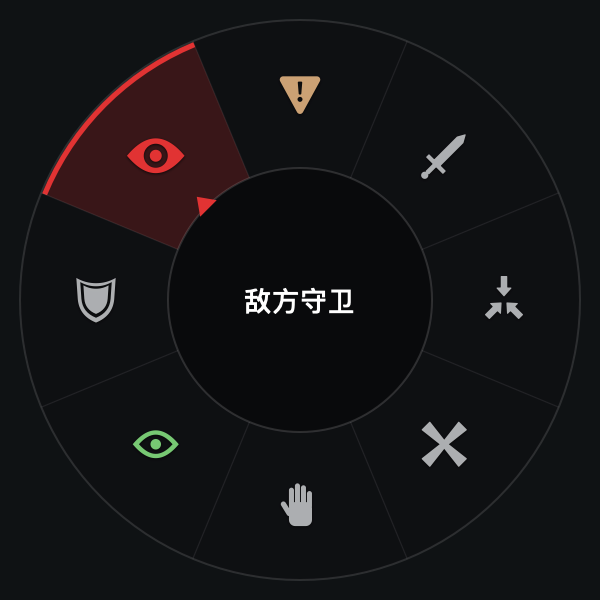
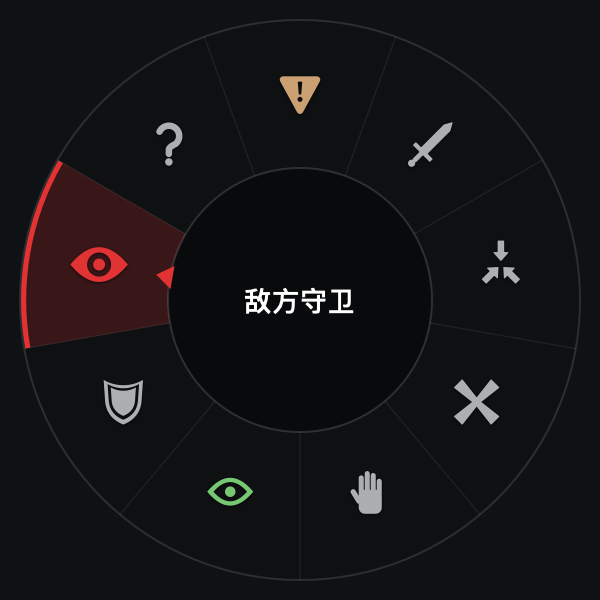
Add the Question Mark ping
The wheel now has nine 40° slots: the eight default pings plus the
game's "Question Mark?" seasonal ping (问号), drawn as a bold vector
question mark in the player's color and using the ordinary ping sound,
since it has no sound event of its own. Wheel geometry, drawing,
visual checks and tests now derive from the slot count. Version 1.2.0 (3).

diff --git a/Sources/DotaPing/VisualChecks.swift b/Sources/DotaPing/VisualChecks.swift
@@ -38,15 +38,15 @@ enum VisualChecks {
         _ = NSApplication.shared
         try FileManager.default.createDirectory(at: directory, withIntermediateDirectories: true)
         try checkEffectLifecycle()
-        let order = PingKind.wheel + [.regular]
+        let order = PingKind.wheel + [.regular], rows = (order.count+2)/3
         for scale in [0.75, 1.0, 1.5] {
             let side = CGFloat(300*scale), spacing = CGFloat(16)
-            let rep = bitmap(size: CGSize(width: side*3+spacing*4, height: side*3+spacing*4)) {
+            let rep = bitmap(size: CGSize(width: side*3+spacing*4, height: side*CGFloat(rows)+spacing*CGFloat(rows+1))) {
                 for (index, kind) in order.enumerated() {
                     let view = WheelView(frame: CGRect(x: 0, y: 0, width: side, height: side))
-                    let angle: CGFloat? = kind == .regular ? nil : CGFloat(PingKind.wheel.firstIndex(of: kind)!) * .pi/4
+                    let angle: CGFloat? = kind == .regular ? nil : CGFloat(PingKind.wheel.firstIndex(of: kind)!) * WheelGeometry.sector
                     view.setSelection(kind, angle: angle, animated: false)
-                    draw(view, at: CGPoint(x: spacing+CGFloat(index%3)*(side+spacing), y: spacing+CGFloat(2-index/3)*(side+spacing)))
+                    draw(view, at: CGPoint(x: spacing+CGFloat(index%3)*(side+spacing), y: spacing+CGFloat(rows-1-index/3)*(side+spacing)))
                 }
             }
             try save(rep, to: directory.appendingPathComponent("wheel-\(Int(scale*100))-retina.png"))
@@ -55,15 +55,15 @@ enum VisualChecks {
         // uses a Dire player colour.
         let view = WheelView(frame: CGRect(x: 0, y: 0, width: 300, height: 300))
         view.player = .pink
-        view.setSelection(.attack, angle: .pi/4, animated: false)
+        view.setSelection(.attack, angle: WheelGeometry.sector, animated: false)
         try save(bitmap(size: CGSize(width: 300, height: 300), pixelScale: 1) { draw(view, at: .zero) }, to: directory.appendingPathComponent("wheel-100-1x.png"))
         let times = [0.06, 0.2, 0.45, 1.2, 1.8, 2.6]
-        let phases = bitmap(size: CGSize(width: 200*CGFloat(times.count), height: 200*9)) {
+        let phases = bitmap(size: CGSize(width: 200*CGFloat(times.count), height: 200*CGFloat(order.count))) {
             for (row, kind) in order.enumerated() {
                 for (column, time) in times.enumerated() {
                     let effect = PingEffectView(frame: CGRect(x: 0, y: 0, width: 200, height: 200), kind: kind, player: .blue, language: .english, scale: 1)
                     effect.seek(to: time)
-                    draw(effect, at: CGPoint(x: column*200, y: (8-row)*200))
+                    draw(effect, at: CGPoint(x: column*200, y: (order.count-1-row)*200))
                 }
             }
         }
@@ -85,7 +85,7 @@ enum VisualChecks {
             let suffix = language == .english ? "" : "-zh"
             let single = WheelView(frame: CGRect(x: 0, y: 0, width: 300, height: 300))
             single.language = language
-            single.setSelection(.enemyWard, angle: -.pi/4, animated: false)
+            single.setSelection(.enemyWard, angle: CGFloat(PingKind.wheel.firstIndex(of: .enemyWard)!) * WheelGeometry.sector, animated: false)
             try save(bitmap(size: CGSize(width: 300, height: 300)) { draw(single, at: .zero) }, to: directory.appendingPathComponent("readme-wheel\(suffix).png"))
             let landed = bitmap(size: CGSize(width: 160*5, height: 170)) {
                 for (index, kind) in [PingKind.regular, .caution, .attack, .enemyWard, .friendlyWard].enumerated() {
@@ -105,7 +105,7 @@ enum VisualChecks {
         defaults.register(defaults: ["trigger": trigger.rawValue, "language": language.rawValue, "playerColor": PlayerColor.blue.rawValue, "volume": 0.55, "effectScale": 1.0])
         let model = AppModel(defaults: defaults)
         let host = NSHostingView(rootView: ControlView(model: model))
-        let window = NSWindow(contentRect: CGRect(x: 0, y: 0, width: 480, height: 780), styleMask: [.borderless], backing: .buffered, defer: false)
+        let window = NSWindow(contentRect: CGRect(x: 0, y: 0, width: 480, height: 840), styleMask: [.borderless], backing: .buffered, defer: false)
         window.appearance = NSAppearance(named: appearance)
         window.contentView = host
         host.layoutSubtreeIfNeeded()
@@ -134,7 +134,7 @@ enum VisualChecks {
                 throw NSError(domain: "VisualChecks", code: 4, userInfo: [NSLocalizedDescriptionKey: "Animation/stop check failed: \(kind.title(.english))"])
             }
         }
-        print("PASS 9 effects: visible animation changes, finish clean and stop immediately (36 pixel comparisons).")
+        print("PASS \(PingKind.allCases.count) effects: visible animation changes, finish clean and stop immediately (\(PingKind.allCases.count*4) pixel comparisons).")
     }
     private static func movie(to url: URL) throws {
         if FileManager.default.fileExists(atPath: url.path) { try FileManager.default.removeItem(at: url) }
@@ -153,8 +153,8 @@ enum VisualChecks {
             let rep = bitmap(size: size, pixelScale: 1) {
                 if t < 7 {
                     let segment = max(-1, Int((t-0.6)/0.65))
-                    let kind: PingKind = t < 0.6 ? .regular : (segment < 8 ? PingKind.wheel[segment] : .regular)
-                    let angle: CGFloat? = kind == .regular ? nil : CGFloat(segment) * .pi/4 + CGFloat(sin(t*7))*0.15
+                    let kind: PingKind = t < 0.6 ? .regular : (segment < PingKind.wheel.count ? PingKind.wheel[segment] : .regular)
+                    let angle: CGFloat? = kind == .regular ? nil : CGFloat(segment) * WheelGeometry.sector + CGFloat(sin(t*7))*0.15
                     if segment != previous { wheel.setSelection(wheel.selected, angle: wheel.direction, animated: false); previous = segment }
                     wheel.setSelection(kind, angle: angle)
                     wheel.sampleTransition(elapsed: t < 0.6 ? 1 : (t-0.6).truncatingRemainder(dividingBy: 0.65))
@@ -163,11 +163,11 @@ enum VisualChecks {
                 } else {
                     let age = (t-7).truncatingRemainder(dividingBy: 2.5)
                     for (index, kind) in order.enumerated() {
-                        let effect = PingEffectView(frame: CGRect(x: 0, y: 0, width: 240, height: 200), kind: kind, player: .blue, language: .english, scale: 1.1)
+                        let effect = PingEffectView(frame: CGRect(x: 0, y: 0, width: 192, height: 240), kind: kind, player: .blue, language: .english, scale: 1)
                         effect.seek(to: age)
-                        draw(effect, at: CGPoint(x: 120+(index%3)*240, y: 65+(2-index/3)*205))
+                        draw(effect, at: CGPoint(x: (index%5)*192, y: 90+(1-index/5)*270))
                     }
-                    caption("Nine pings: closing ring, pulses, rising icon, chat line", center: CGPoint(x: 480, y: 35))
+                    caption("Ten pings: closing ring, pulses, rising icon, chat line", center: CGPoint(x: 480, y: 35))
                 }
             }
             while !input.isReadyForMoreMediaData { RunLoop.current.run(until: Date(timeIntervalSinceNow: 0.005)) }

diff --git a/Tests/PingCoreTests/GestureTests.swift b/Tests/PingCoreTests/GestureTests.swift
@@ -31,11 +31,15 @@ final class GestureTests {
 
     // MARK: Chord triggers
 
-    func testEightDirectionsAndCentralDeadZone() {
-        let vectors: [CGPoint] = [.init(x: 0,y: 100), .init(x: 100,y: 100), .init(x: 100,y: 0), .init(x: 100,y: -100),
-                                  .init(x: 0,y: -100), .init(x: -100,y: -100), .init(x: -100,y: 0), .init(x: -100,y: 100)]
-        for (index, vector) in vectors.enumerated() {
-            XCTAssertEqual(WheelGeometry.selection(at: vector, center: .zero, deadZone: WheelGeometry.centerRadius), PingKind.wheel[index])
+    func testEveryDirectionAndCentralDeadZone() {
+        XCTAssertEqual(PingKind.wheel.count, 9)
+        for (index, kind) in PingKind.wheel.enumerated() {
+            // Slot centre and both inner edges, clockwise from north.
+            for offset in [0, -WheelGeometry.sector/2 + 0.01, WheelGeometry.sector/2 - 0.01] {
+                let theta = CGFloat(index)*WheelGeometry.sector + offset
+                let point = CGPoint(x: 100*sin(theta), y: 100*cos(theta))
+                XCTAssertEqual(WheelGeometry.selection(at: point, center: .zero, deadZone: WheelGeometry.centerRadius), kind)
+            }
         }
         XCTAssertEqual(WheelGeometry.selection(at: CGPoint(x: 66, y: 0), center: .zero, deadZone: WheelGeometry.centerRadius), .regular)
         XCTAssertEqual(WheelGeometry.selection(at: CGPoint(x: 67, y: 0), center: .zero, deadZone: WheelGeometry.centerRadius), .onMyWay)
@@ -48,8 +52,9 @@ final class GestureTests {
     }
     func testReleaseCommitsExactlyOnceAtOriginalAnchor() {
         let machine = GestureMachine(); open(machine)
-        XCTAssertEqual(machine.moved(to: CGPoint(x: 500, y: 400)), [.hover(.defend, angle: -.pi/2)])
-        XCTAssertEqual(machine.flagsChanged([.control, .option], at: .zero, otherInputHeld: false), [.dismiss, .commit(.defend, anchor)])
+        // Due west lies in the Enemy Ward slot (260°–300°).
+        XCTAssertEqual(machine.moved(to: CGPoint(x: 500, y: 400)), [.hover(.enemyWard, angle: -.pi/2)])
+        XCTAssertEqual(machine.flagsChanged([.control, .option], at: .zero, otherInputHeld: false), [.dismiss, .commit(.enemyWard, anchor)])
         XCTAssertEqual(machine.flagsChanged([.option], at: .zero, otherInputHeld: false), [])
         XCTAssertEqual(machine.flagsChanged([], at: .zero, otherInputHeld: false), [])
         XCTAssertEqual(machine.phase, .idle)
@@ -121,9 +126,9 @@ final class GestureTests {
     func testMovementDuringArmingAppliedAfterWheelOpens() {
         let machine = GestureMachine()
         _ = machine.flagsChanged(chord, at: anchor, otherInputHeld: false)
-        _ = machine.moved(to: CGPoint(x: 600, y: 300))
+        _ = machine.moved(to: CGPoint(x: 620, y: 300))
         _ = machine.delayElapsed()
-        XCTAssertEqual(machine.setWheelCenter(anchor), [.hover(.assist, angle: .pi)])
+        XCTAssertEqual(machine.setWheelCenter(anchor), [.hover(.assist, angle: atan2(20, -100))])
     }
     func testEveryChordTrigger() {
         for trigger in Trigger.allCases where !trigger.usesPrimaryButton {
@@ -197,11 +202,11 @@ final class GestureTests {
         XCTAssertEqual(machine.delayElapsed(), [.show(anchor)])
         XCTAssertEqual(machine.setWheelCenter(anchor), [])
         // Physical trackpad press, three-finger drag and mouse drags all arrive as primary drags.
-        XCTAssertEqual(machine.primaryDragged(to: CGPoint(x: 600, y: 300)), Response([.hover(.assist, angle: .pi)], consume: true))
+        XCTAssertEqual(machine.primaryDragged(to: CGPoint(x: 620, y: 300)), Response([.hover(.assist, angle: atan2(20, -100))], consume: true))
         // Letting go of Option first keeps the wheel open; the button decides.
         XCTAssertEqual(machine.flagsChanged([], at: anchor, otherInputHeld: false), [])
-        XCTAssertEqual(machine.primaryDragged(to: CGPoint(x: 520, y: 320)), Response([.hover(.friendlyWard, angle: atan2(-80, -80))], consume: true))
-        XCTAssertEqual(machine.primaryUp(at: CGPoint(x: 520, y: 320)), Response([.dismiss, .commit(.friendlyWard, anchor)], consume: true))
+        XCTAssertEqual(machine.primaryDragged(to: CGPoint(x: 520, y: 320)), Response([.hover(.defend, angle: atan2(-80, -80))], consume: true))
+        XCTAssertEqual(machine.primaryUp(at: CGPoint(x: 520, y: 320)), Response([.dismiss, .commit(.defend, anchor)], consume: true))
         XCTAssertEqual(machine.primaryUp(at: anchor), Response())
     }
     func testControlOptionClickSendsWarningOnce() {
@@ -246,8 +251,8 @@ final class GestureTests {
     // MARK: Data, artwork and audio
 
     func testGameDataAndColors() {
-        XCTAssertEqual(PingKind.wheel.count, 8)
-        XCTAssertEqual(Set(PingKind.wheel).count, 8)
+        XCTAssertEqual(PingKind.wheel.count, 9)
+        XCTAssertEqual(Set(PingKind.wheel).count, 9)
         XCTAssertTrue(!PingKind.wheel.contains(.regular))
         XCTAssertEqual(PingKind.caution.fixedColor, RGB(255, 155, 14))
         XCTAssertEqual(PingKind.enemyWard.color(for: .pink), RGB(225, 51, 51))
@@ -259,9 +264,9 @@ final class GestureTests {
     func testBothLanguagesAreComplete() {
         // English names are the game's dota_pingwheel_* strings.
         XCTAssertEqual(PingKind.wheel.map { $0.title(.english) },
-                       ["Caution", "Attack", "On My Way", "Warning", "Assist", "Friendly Ward", "Defend", "Enemy Ward"])
+                       ["Caution", "Attack", "On My Way", "Warning", "Assist", "Friendly Ward", "Defend", "Enemy Ward", "Question Mark"])
         for language in Language.allCases {
-            XCTAssertEqual(Set(PingKind.allCases.map { $0.title(language) }).count, 9)
+            XCTAssertEqual(Set(PingKind.allCases.map { $0.title(language) }).count, 10)
             XCTAssertEqual(PingKind.allCases.compactMap { $0.chat(language) }.count, 7)
             XCTAssertEqual(Set(PlayerColor.allCases.map { $0.title(language) }).count, 10)
             XCTAssertEqual(Set(Trigger.allCases.map { $0.title(language) }).count, 4)
@@ -351,7 +356,7 @@ enum Checks {
     static func main() {
         let test = GestureTests()
         let scenarios: [(String, () -> Void)] = [
-            ("Eight directions and centre zone", test.testEightDirectionsAndCentralDeadZone),
+            ("Every direction and centre zone", test.testEveryDirectionAndCentralDeadZone),
             ("Short press never pings", test.testShortPressNeverPingsAndLateTimerDoesNothing),
             ("Sends once at the original anchor", test.testReleaseCommitsExactlyOnceAtOriginalAnchor),
             ("Every key-release order", test.testAllReleaseOrdersCommitExactlyOnce),

diff --git a/Sources/PingCore/Ping.swift b/Sources/PingCore/Ping.swift
@@ -10,12 +10,13 @@ public enum Language: String, CaseIterable, Identifiable {
     public func pick(_ english: String, _ chinese: String) -> String { self == .english ? english : chinese }
 }
 
-/// The default entries of Dota 2's ping wheel (`scripts/ping_wheel.vdata`).
+/// The default entries of Dota 2's ping wheel (`scripts/ping_wheel.vdata`),
+/// plus the game's "Question Mark?" seasonal ping.
 public enum PingKind: String, CaseIterable, Identifiable {
-    case caution, attack, onMyWay, warning, assist, friendlyWard, defend, enemyWard, regular
+    case caution, attack, onMyWay, warning, assist, friendlyWard, defend, enemyWard, question, regular
     public var id: String { rawValue }
     /// Clockwise from north. The centre is the ordinary ping.
-    public static let wheel: [PingKind] = [.caution, .attack, .onMyWay, .warning, .assist, .friendlyWard, .defend, .enemyWard]
+    public static let wheel: [PingKind] = [.caution, .attack, .onMyWay, .warning, .assist, .friendlyWard, .defend, .enemyWard, .question]
     /// Wheel label: the game's `dota_pingwheel_*` string.
     public func title(_ language: Language) -> String {
         switch self {
@@ -27,11 +28,12 @@ public enum PingKind: String, CaseIterable, Identifiable {
         case .friendlyWard: return language.pick("Friendly Ward", "友方守卫")
         case .defend: return language.pick("Defend", "防守")
         case .enemyWard: return language.pick("Enemy Ward", "敌方守卫")
+        case .question: return language.pick("Question Mark", "问号")
         case .regular: return language.pick("Ping", "信号")
         }
     }
     /// Team chat line: the game's `DOTA_Chat_Ping_Msg_*` text, without icon and location.
-    /// The ordinary and warning pings post no chat message in game.
+    /// The ordinary, warning and seasonal pings post no chat message in game.
     public func chat(_ language: Language) -> String? {
         switch self {
         case .caution: return language.pick("Caution", "小心")
@@ -41,13 +43,14 @@ public enum PingKind: String, CaseIterable, Identifiable {
         case .friendlyWard: return language.pick("We Need Vision", "我们需要视野")
         case .defend: return language.pick("Defend", "防守")
         case .enemyWard: return language.pick("Enemy Has Vision", "敌人有视野")
-        case .warning, .regular: return nil
+        case .warning, .question, .regular: return nil
         }
     }
     /// One cue per game sound event; several pings share an event, as in game.
+    /// The seasonal Question Mark has no event of its own and uses the ordinary one.
     public var soundName: String {
         switch self {
-        case .regular, .assist: return "ping"
+        case .regular, .assist, .question: return "ping"
         case .warning, .caution: return "ping_warning"
         case .onMyWay: return "ping_waypoint"
         case .attack: return "ping_attack"
@@ -160,6 +163,8 @@ public enum Trigger: String, CaseIterable, Identifiable {
 }
 
 public enum WheelGeometry {
+    /// Angular width of one wheel slot.
+    public static let sector: CGFloat = 2 * .pi / CGFloat(PingKind.wheel.count)
     public static let centerRadius: CGFloat = 66
     public static let iconRadius: CGFloat = 102
     public static let outerRadius: CGFloat = 140
@@ -174,9 +179,9 @@ public enum WheelGeometry {
     public static func selection(at point: CGPoint, center: CGPoint, deadZone: CGFloat) -> PingKind {
         let dx = point.x - center.x, dy = point.y - center.y
         guard hypot(dx, dy) > deadZone else { return .regular }
-        let clockwiseFromNorth = atan2(dx, dy)
-        let index = Int(floor((clockwiseFromNorth + .pi / 8) / (.pi / 4)))
-        return PingKind.wheel[(index % 8 + 8) % 8]
+        let clockwiseFromNorth = atan2(dx, dy), count = PingKind.wheel.count
+        let index = Int(floor((clockwiseFromNorth + sector / 2) / sector))
+        return PingKind.wheel[(index % count + count) % count]
     }
 
     public static func clampedCenter(anchor: CGPoint, frame: CGRect, radius: CGFloat) -> CGPoint {

diff --git a/Sources/DotaPing/Overlay.swift b/Sources/DotaPing/Overlay.swift
@@ -35,8 +35,8 @@ final class WheelView: NSView {
     private(set) var direction: CGFloat?
     var player: PlayerColor = .blue { didSet { needsDisplay = true } }
     var language: Language = .english { didSet { needsDisplay = true } }
-    private var weights = Array(repeating: 0.0, count: 8)
-    private var origins = Array(repeating: 0.0, count: 8)
+    private var weights = Array(repeating: 0.0, count: PingKind.wheel.count)
+    private var origins = Array(repeating: 0.0, count: PingKind.wheel.count)
     private var transitionStart: CFTimeInterval = 0
     private var openingStart: CFTimeInterval?
     private var timer: Timer?
@@ -104,20 +104,21 @@ final class WheelView: NSView {
         NSColor(srgbRed: 0.055, green: 0.06, blue: 0.068, alpha: 0.86).setFill(); disk.fill()
         NSColor(white: 1, alpha: 0.12).setStroke(); disk.lineWidth = 1*s; disk.stroke()
 
+        let step = 360/CGFloat(PingKind.wheel.count), half = step/2
         for (index, kind) in PingKind.wheel.enumerated() {
-            let degrees = CGFloat(90-index*45), theta = degrees * .pi/180
+            let degrees = 90-CGFloat(index)*step, theta = degrees * .pi/180
             let weight = weights[index], tint = kind.tint(player)
             if weight > 0.001 {
                 let sector = NSBezierPath()
-                sector.appendArc(withCenter: c, radius: outer-0.5*s, startAngle: degrees+22.5, endAngle: degrees-22.5, clockwise: true)
-                sector.appendArc(withCenter: c, radius: inner, startAngle: degrees-22.5, endAngle: degrees+22.5, clockwise: false)
+                sector.appendArc(withCenter: c, radius: outer-0.5*s, startAngle: degrees+half, endAngle: degrees-half, clockwise: true)
+                sector.appendArc(withCenter: c, radius: inner, startAngle: degrees-half, endAngle: degrees+half, clockwise: false)
                 sector.close()
                 tint.withAlphaComponent(0.20*weight).setFill(); sector.fill()
                 let rim = NSBezierPath()
-                rim.appendArc(withCenter: c, radius: outer-1.8*s, startAngle: degrees-22.5, endAngle: degrees+22.5)
+                rim.appendArc(withCenter: c, radius: outer-1.8*s, startAngle: degrees-half, endAngle: degrees+half)
                 tint.withAlphaComponent(weight).setStroke(); rim.lineWidth = 2.6*s; rim.stroke()
             }
-            let boundary = (degrees+22.5) * .pi/180
+            let boundary = (degrees+half) * .pi/180
             let divider = NSBezierPath()
             divider.move(to: CGPoint(x: c.x+cos(boundary)*inner, y: c.y+sin(boundary)*inner))
             divider.line(to: CGPoint(x: c.x+cos(boundary)*outer, y: c.y+sin(boundary)*outer))

diff --git a/Sources/PingCore/Glyphs.swift b/Sources/PingCore/Glyphs.swift
@@ -81,6 +81,15 @@ public enum Glyphs {
                 path.addPath(shield.copy(using: &inset)!)
             }
             return Glyph(path: path, evenOdd: true)
+        case .question:
+            // Bold question mark, like the game's "Question Mark?" ping: a stroked hook and stem over a dot.
+            let hook = CGMutablePath()
+            hook.addArc(center: CGPoint(x: 0.5, y: 0.66), radius: 0.215, startAngle: 155 * .pi/180, endAngle: -50 * .pi/180, clockwise: true)
+            hook.addQuadCurve(to: CGPoint(x: 0.5, y: 0.37), control: CGPoint(x: 0.5, y: 0.43))
+            hook.addLine(to: CGPoint(x: 0.5, y: 0.29))
+            path.addPath(hook.copy(strokingWithWidth: 0.135, lineCap: .round, lineJoin: .round, miterLimit: 10))
+            path.addEllipse(in: circle(0.5, 0.12, 0.078))
+            return Glyph(path: path, evenOdd: false)
         case .enemyWard:
             // Solid ward eye, like the Observer Ward map icon.
             path.addPath(almond(left: 0.02, right: 0.98, y: 0.5, lift: 0.58))

diff --git a/Sources/DotaPing/main.swift b/Sources/DotaPing/main.swift
@@ -34,7 +34,7 @@ if CommandLine.arguments.contains("--check-assets") {
         }
         print("game \(recipe.output): \(String(format: "%.2f", player.duration))s")
     }
-    if failures.isEmpty { print("All 9 glyphs draw; all 7 game and 7 synthesised cues decode."); exit(0) }
+    if failures.isEmpty { print("All \(PingKind.allCases.count) glyphs draw; all 7 game and 7 synthesised cues decode."); exit(0) }
     failures.forEach { print($0) }; exit(1)
 }
 

diff --git a/README.md b/README.md
@@ -23,7 +23,7 @@ Apple Silicon Mac with macOS 13 or later.
 
 ## Install
 
-Download `DotaPing-v1.1.0-macOS-arm64.zip` from [Releases](https://github.com/PeixiongYuan/DotaPing-Mac/releases), unzip it and move `DotaPing.app` to Applications.
+Download `DotaPing-v1.2.0-macOS-arm64.zip` from [Releases](https://github.com/PeixiongYuan/DotaPing-Mac/releases), unzip it and move `DotaPing.app` to Applications.
 
 The app is ad-hoc signed, not notarized. If macOS refuses to open it, try once, then go to **System Settings → Privacy & Security** and choose **Open Anyway**.
 
@@ -60,25 +60,26 @@ Settings are saved automatically: trigger, player color, size, volume, sounds an
 
 ## Pings
 
-Clockwise from the top, with the ordinary Ping in the center. Names, team chat lines, fixed colors and sound grouping come from the game's `scripts/ping_wheel.vdata` and its English and Simplified Chinese localization.
+Nine slots of 40°, clockwise from the top, with the ordinary Ping in the center. Names, team chat lines, fixed colors and sound grouping come from the game's `scripts/ping_wheel.vdata` and its English and Simplified Chinese localization.
 
-| Position | Ping | Chat line | 简体中文 | Color | Game sound event |
+| Slot | Ping | Chat line | 简体中文 | Color | Game sound event |
 | --- | --- | --- | --- | --- | --- |
 | Top | Caution | Caution | 小心 | fixed orange | General.PingWarning |
-| Top right | Attack | Attack | 进攻 | player color | General.PingAttack |
-| Right | On My Way | On My Way | 我马上到 | player color | General.PingWaypoint |
-| Bottom right | Warning | — | 警告 | player color | General.PingWarning |
-| Bottom | Assist | Assist | 援助 | player color | General.Ping |
-| Bottom left | Friendly Ward | We Need Vision | 友方守卫 | fixed green | General.PingFriendlyWard |
-| Left | Defend | Defend | 防守 | player color | General.PingDefense |
-| Top left | Enemy Ward | Enemy Has Vision | 敌方守卫 | fixed red | General.PingEnemyWard |
+| 40° | Attack | Attack | 进攻 | player color | General.PingAttack |
+| 80° | On My Way | On My Way | 我马上到 | player color | General.PingWaypoint |
+| 120° | Warning | — | 警告 | player color | General.PingWarning |
+| 160° | Assist | Assist | 援助 | player color | General.Ping |
+| 200° | Friendly Ward | We Need Vision | 友方守卫 | fixed green | General.PingFriendlyWard |
+| 240° | Defend | Defend | 防守 | player color | General.PingDefense |
+| 280° | Enemy Ward | Enemy Has Vision | 敌方守卫 | fixed red | General.PingEnemyWard |
+| 320° | Question Mark | — | 问号 | player color | General.Ping |
 | Center | Ping | — | 信号 | player color | General.Ping |
 
-The player color can be any of the ten Radiant and Dire slot colors. The game lets players rearrange the wheel; the positions above follow LoLPing's layout and may differ from the in-game default. The Heart ping is not included.
+The player color can be any of the ten Radiant and Dire slot colors. Question Mark is the game's "Question Mark?" seasonal ping; it has no sound event or chat line of its own, so it uses the ordinary ping sound. The game lets players rearrange the wheel; the order above follows LoLPing's layout, with Question Mark added last, and may differ from the in-game default. The Heart ping is not included.
 
 ## Icons and sound
 
-- The icons are vector drawings that follow the shapes of the in-game ping icons where those could be checked: the ringed "!", the flared X, three converging arrows for On My Way, the sword, the notched shield and the ward eye. In game both ward pings use the same eye in different colors; here Friendly Ward is drawn as an outline so the two differ even before they are highlighted. The standard Caution and Assist icons are not publicly available, so Caution is a point-down warning triangle (after the game's "Caution!" seasonal ping) and Assist is a raised hand.
+- The icons are vector drawings that follow the shapes of the in-game ping icons where those could be checked: the ringed "!", the flared X, three converging arrows for On My Way, the sword, the notched shield, the ward eye and the bold question mark. In game both ward pings use the same eye in different colors; here Friendly Ward is drawn as an outline so the two differ even before they are highlighted. The standard Caution and Assist icons are not publicly available, so Caution is a point-down warning triangle (after the game's "Caution!" seasonal ping) and Assist is a raised hand.
 - **Sounds → Dota 2** (default) plays the game's own ping sounds. The eight files from the game's `sounds/ui/` folder are bundled unmodified in `Resources/Sounds/`, taken from the community archive [Source2Sounds/dota2](https://github.com/Source2Sounds/dota2) at a pinned commit; `Resources/asset-sources.json` records their sources and SHA-256 hashes, and `scripts/fetch_sounds.py` can restore them. At launch DotaPing mixes them the way the game's sound events do: per-event volume, plus the extra layer under Warning (pitch 1.25) and Attack (pitch 0.95, 0.1 s late). **These sound files are © Valve Corporation** and are included, as in LoLPing-Mac, for this fan-made tool only.
 - **Sounds → Synthesized** plays seven cues generated at launch instead (`Sources/PingCore/SoundSynth.swift`).
 - To use your own sounds, click **Custom Sounds…** to open `~/Library/Application Support/DotaPing/Sounds/` and add files named `ping`, `ping_warning`, `ping_waypoint`, `ping_attack`, `ping_enemy_ward`, `ping_friendly_ward` or `ping_defense` (wav, mp3, m4a, aiff or caf). They apply on the next ping.
@@ -94,7 +95,7 @@ dist/DotaPing.app/Contents/MacOS/DotaPing --export-sounds /tmp/dotaping-sounds
 
 `--visual-check` uses the app's own renderer to write wheel snapshots at 75/100/150 % (Retina and 1x), animation phases, all ten player colors, the settings window in light and dark appearance and in both languages, and a short silent demo video. It also checks that every animation changes over time, clears completely when it ends and disappears immediately when stopped. It creates no event tap, writes no preferences and does not capture the screen.
 
-`scripts/test.sh` runs 30 scenarios (255 assertions) over the gesture state machine and data: eight directions and the center zone, every key-release order, repeats, cancels, extra modifiers, drags already in progress, negative multi-display coordinates, trackpad tap-to-confirm, ⌥-click / ⌥-drag / ⌃⌥-click, swallowed releases after a cancel, both language tables, icon bounds, synthesized audio, WAV encoding, the game-sound mixing and the bundled files' checksums. Live global input, real trackpad gestures, external displays and full-screen apps still need checking on hardware; see [VERIFICATION.md](VERIFICATION.md).
+`scripts/test.sh` runs 30 scenarios (277 assertions) over the gesture state machine and data: every wheel slot and the center zone, every key-release order, repeats, cancels, extra modifiers, drags already in progress, negative multi-display coordinates, trackpad tap-to-confirm, ⌥-click / ⌥-drag / ⌃⌥-click, swallowed releases after a cancel, both language tables, icon bounds, synthesized audio, WAV encoding, the game-sound mixing and the bundled files' checksums. Live global input, real trackpad gestures, external displays and full-screen apps still need checking on hardware; see [VERIFICATION.md](VERIFICATION.md).
 
 ## Credits
 

diff --git a/VERIFICATION.md b/VERIFICATION.md
@@ -1,19 +1,19 @@
-# DotaPing 1.1 verification
+# DotaPing 1.2 verification
 
 Date: 2026-10-09. Apple Silicon, macOS 27.0, Swift 6.4 (Command Line Tools only), built-in Retina display.
 
 ## Verified
 
-- `scripts/build.sh` builds a release `dist/DotaPing.app` with `swiftc` and no compiler warnings. Version 1.1.0 (build 2), about 3.6 MB including the sound files, ad-hoc signed as `local.dotaping.DotaPing`; `codesign --verify --deep --strict` passes.
-- `--check-assets`: all nine icons draw; all seven game cues mixed from the bundled files (1.50–2.94 s) and all seven synthesized cues (0.50–0.66 s) decode in AVAudioPlayer. Mixing the game cues at launch takes about 0.04 s.
-- `scripts/test.sh`: 30 scenarios, 255 assertions, 0 failures. Besides the 14 gesture scenarios carried over from LoLPing-Mac:
+- `scripts/build.sh` builds a release `dist/DotaPing.app` with `swiftc` and no compiler warnings. Version 1.2.0 (build 3), about 3.6 MB including the sound files, ad-hoc signed as `local.dotaping.DotaPing`; `codesign --verify --deep --strict` passes.
+- `--check-assets`: all ten icons draw; all seven game cues mixed from the bundled files (1.50–2.94 s) and all seven synthesized cues (0.50–0.66 s) decode in AVAudioPlayer. Mixing the game cues at launch takes about 0.04 s.
+- `scripts/test.sh`: 30 scenarios, 277 assertions, 0 failures. Every one of the nine 40° slots is checked at its centre and both edges. Besides the 14 gesture scenarios carried over from LoLPing-Mac:
   - Trackpad: a tap or click while the wheel is open sends once, and releasing the keys afterwards does not send again; a click before the wheel opens passes through as another shortcut; a drag that DotaPing does not own still cancels.
   - ⌥ + Left Click: ⌥-click pings at the click point; ⌥-hold, drag and release sends the hovered ping, even if ⌥ is released first; ⌃⌥-click sends exactly one Warning; other modifier combinations and clicks while a key is held pass through; after a cancel the matching drags and release are swallowed; ⌥ already held when the app is enabled still works.
-  - Data: eight distinct wheel slots, fixed colors, ten player colors; both language tables complete, with English names matching the game's strings; icons inside the unit square; synthesized sounds have the expected length, peak and silent ends, and valid WAV headers.
+  - Data: nine distinct wheel slots, fixed colors, ten player colors; both language tables complete, with English names matching the game's strings; icons inside the unit square; synthesized sounds have the expected length, peak and silent ends, and valid WAV headers.
   - Audio: WAV encode/decode round trip; the game-sound recipes cover every cue and follow the sound events (event volume, layer pitch and delay on every channel, limiting below clipping); the eight bundled files match the SHA-256 hashes in `Resources/asset-sources.json`, and the mixed Ping, Attack, Warning and Enemy Ward cues have the expected lengths with no sample above 0.98.
-- `--visual-check`: for each of the nine animations, the frames at 0.25 s, near the end, after the end and after `stop()` were compared — 36 pixel comparisons pass. Animations change over time, and the frames after the end and after `stop()` match the empty background exactly.
+- `--visual-check`: for each of the ten animations, the frames at 0.25 s, near the end, after the end and after `stop()` were compared — 40 pixel comparisons pass. Animations change over time, and the frames after the end and after `stop()` match the empty background exactly.
 - Reviewed renders (`Verification/Visuals/`, regenerated by `--visual-check`, not committed):
-  - Wheel snapshots at 75/100/150 % Retina and 100 % 1x (Dire pink); hovered sector, rim, enlarged icon, pointer direction and centered name are correct; fixed-color pings keep their color regardless of player color; nothing is clipped.
+  - Wheel snapshots of all ten states at 75/100/150 % Retina and 100 % 1x (Dire pink); hovered sector, rim, enlarged icon, pointer direction and centered name are correct; fixed-color pings keep their color regardless of player color; nothing is clipped.
   - Animation phases at 0.06–2.6 s; the ordinary Ping clears after 2 s, the rest within 3 s.
   - All ten player colors.
   - Settings window in light and dark appearance (English), with the ⌥ + Left Click trigger, and in Simplified Chinese.
